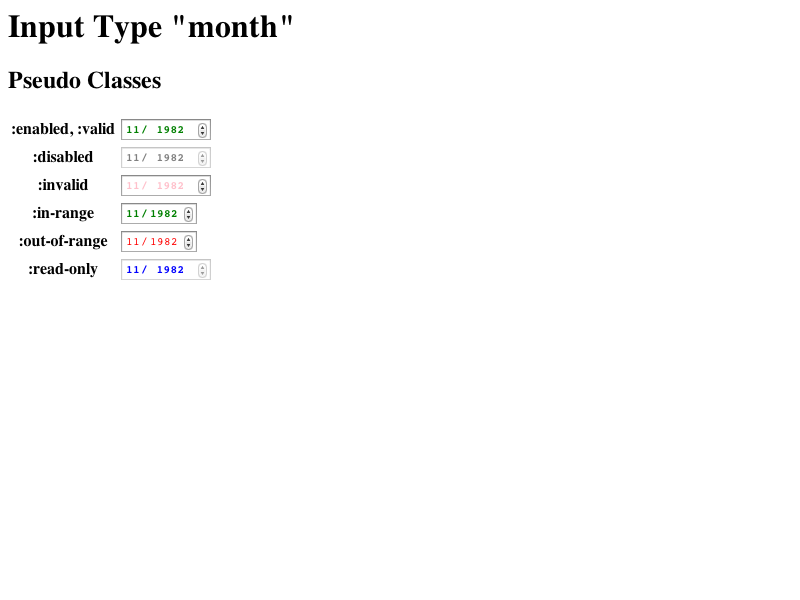
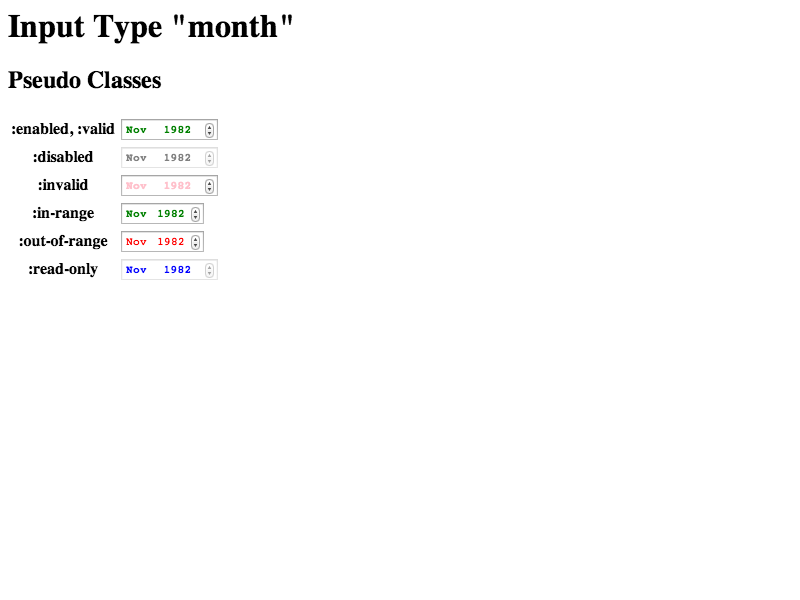
Use Localizer::monthFormat to construct input[type=month] UI https://bugs.webkit.org/show_bug.cgi?id=99818
Reviewed by Kentaro Hara.

Source/WebCore:

Use an LDML format returned by Localizer::monthFormat for
input[type=month] UI.

Because the format may contain symbolic month names and symbolic
stand-alone month names, we need to add:
 - Symbolic/numeric detection in DateTimeEditBuilder
 - Normal/stand-alone detection in DateTimeEditBuilder
 - Symbolic edit field for months

Test: fast/forms/month-multiple-fields/month-multiple-fields-appearance-l10n.html,
      fast/forms/month-multiple-fields/month-multiple-fields-keyboard-events.html

* html/MonthInputType.cpp:
(WebCore::MonthInputType::setupLayoutParameters):
Use Localizer::monthFormat.

* html/shadow/DateTimeEditElement.cpp:
(WebCore::DateTimeEditBuilder::visitField):
- If the number of continuous field character is greater than 2, use
DateTimeSymbolicMonthFieldElement.
- Supports stand-alone month field.

* html/shadow/DateTimeFieldElements.h:
(DateTimeSymbolicMonthFieldElement): Added. A subclass of DateTimeSymbolicFieldElement.
* html/shadow/DateTimeFieldElements.cpp:
(WebCore::DateTimeSymbolicMonthFieldElement::DateTimeSymbolicMonthFieldElement):
Added.
(WebCore::DateTimeSymbolicMonthFieldElement::create): Added.
(WebCore::DateTimeSymbolicMonthFieldElement::populateDateTimeFieldsState):
We need to add 1 because the internal integer representation is 0-based
and DateTimeFieldsState uses 1-based month.
(WebCore::DateTimeSymbolicMonthFieldElement::setValueAsDate):
DateComponents::month is 0-based.
[…]

diff --git a/LayoutTests/fast/forms/month-multiple-fields/month-multiple-fields-keyboard-events.html b/LayoutTests/fast/forms/month-multiple-fields/month-multiple-fields-keyboard-events.html
@@ -43,16 +43,16 @@ function beginTest(title, value, opt_min, opt_max)
     input.focus();
 }
 
-// We assume the year-month format is MM/yyyy.
+// We assume the year-month format is "MMM yyyy".
 
 beginTest('Digit keys');
-keyDown('9');
-keyDown('2');
+keyDown('s');
+keyDown('rightArrow');
 keyDown('0');
 keyDown('1');
 keyDown('2');
 keyDown('A');
-shouldBeEqualToString('input.value', '2012-09');
+shouldBeEqualToString('input.value', '0012-09');
 
 // FIXME: We should test type ahead time out. When event.leapForward() affects
 // keyboard event time stamp, we can uncomment this fragment.
@@ -106,13 +106,14 @@ keyDown('upArrow');
 shouldBeEqualToString('input.value', '2012-02');
 
 beginTest('Tab key', '2012-09');
-keyDown('\t');
-keyDown('5');
+keyDown('\t'); // -> Sep [2012]
+keyDown('5'); //  -> Sep [0005]
 shouldBeEqualToString('input.value', '0005-09');
-keyDown('\t', ['shiftKey']);
-keyDown('7');
-shouldBeEqualToString('input.value', '0005-07');
-keyDown('\t');
+keyDown('\t', ['shiftKey']); // -> [Sep] [0005]
+keyDown('J'); // -> [Jan] 0005
+shouldBeEqualToString('input.value', '0005-01');
+keyDown('\t'); // -> Jan [0005]
+keyDown('\t'); // -> Jan 0005
 shouldBeEqualToString('document.activeElement.id', 'another');
 
 beginTest('Shfit+Tab key', '2012-09');
@@ -174,14 +175,14 @@ shouldBeEqualToString('input.value', '0002-12');
 // lang-attribute-aware-form-control-UI feature.
 input.setAttribute("lang", "he-il");
 beginTest('RTL Left/Right keys', '2012-09');
-keyDown('1');
-shouldBeEqualToString('input.value', '2012-01');
-keyDown('leftArrow');
-keyDown('2');
-shouldBeEqualToString('input.value', '0002-01');
-keyDown('rightArrow');
-keyDown('3');
-shouldBeEqualToString('input.value', '0002-03');
+keyDown('upArrow'); // -> 2012 [M10]
+shouldBeEqualToString('input.value', '2012-10');
+keyDown('leftArrow'); // -> [2012] M10
+keyDown('2'); //         -> [0002] M10
+shouldBeEqualToString('input.value', '0002-10');
+keyDown('rightArrow'); // -> 0002 [M10]
+keyDown('upArrow'); //    -> 0002 [M11]
+shouldBeEqualToString('input.value', '0002-11');
 input.removeAttribute("lang");
 </script>
 <script src="../../js/resources/js-test-post.js"></script>

diff --git a/LayoutTests/fast/forms/month-multiple-fields/month-multiple-fields-appearance-l10n.html b/LayoutTests/fast/forms/month-multiple-fields/month-multiple-fields-appearance-l10n.html
@@ -1,0 +1,46 @@
+<!DOCTYPE html>
+<html>
+<head>
+<meta charset="utf-8">
+<script>
+if (window.internals)
+    internals.settings.setLangAttributeAwareFormControlUIEnabled(true);
+if (window.testRunner)
+    testRunner.dumpAsText(true);
+</script>
+<style>
+dt {
+    float: left;
+    min-width: 5em;
+}
+</style>
+</head>
+<body>
+<dl>
+<dt>ar-eg
+<dd><input type="month" value="2012-12" lang="ar-eg">
+<dt>de-de
+<dd><input type="month" value="2012-12" lang="de-de">
+<dt>el-gr
+<dd><input type="month" value="2012-12" lang="el-gr">
+<dt>en-us
+<dd><input type="month" value="2012-12" lang="en-us">
+<dt>fr-fr
+<dd><input type="month" value="2012-12" lang="fr-fr">
+<dt>he-il
+<dd><input type="month" value="2012-12" lang="he-il">
+<dt>hi-in
+<dd><input type="month" value="2012-12" lang="hi-in">
+<dt>ja-jp
+<dd><input type="month" value="2012-12" lang="ja-jp">
+<dt>ko-kr
+<dd><input type="month" value="2012-12" lang="ko-kr">
+<dt>ru-ru
+<dd><input type="month" value="2012-12" lang="ru-ru">
+<dt>zh-tw
+<dd><input type="month" value="2012-12" lang="zh-tw">
+<dt>zh-cn
+<dd><input type="month" value="2012-12" lang="zh-cn">
+</dl>
+</body>
+</html>

diff --git a/Source/WebCore/html/shadow/DateTimeFieldElements.cpp b/Source/WebCore/html/shadow/DateTimeFieldElements.cpp
@@ -381,6 +381,50 @@ void DateTimeSecondFieldElement::setValueAsDateTimeFieldsState(const DateTimeFie
 
 // ----------------------------
 
+DateTimeSymbolicMonthFieldElement::DateTimeSymbolicMonthFieldElement(Document* document, FieldOwner& fieldOwner, const Vector<String>& labels)
+    : DateTimeSymbolicFieldElement(document, fieldOwner, labels)
+{
+}
+
+PassRefPtr<DateTimeSymbolicMonthFieldElement> DateTimeSymbolicMonthFieldElement::create(Document* document, FieldOwner& fieldOwner, const Vector<String>& labels)
+{
+    DEFINE_STATIC_LOCAL(AtomicString, monthPsuedoId, ("-webkit-datetime-edit-month-field"));
+    RefPtr<DateTimeSymbolicMonthFieldElement> field = adoptRef(new DateTimeSymbolicMonthFieldElement(document, fieldOwner, labels));
+    field->initialize(monthPsuedoId, AXMonthFieldText());
+    return field.release();
+}
+
+void DateTimeSymbolicMonthFieldElement::populateDateTimeFieldsState(DateTimeFieldsState& dateTimeFieldsState)
+{
+    if (!hasValue())
+        dateTimeFieldsState.setMonth(DateTimeFieldsState::emptyValue);
+    ASSERT(valueAsInteger() < static_cast<int>(symbolsSize()));
+    dateTimeFieldsState.setMonth(valueAsInteger() + 1);
+}
+
+void DateTimeSymbolicMonthFieldElement::setValueAsDate(const DateComponents& date)
+{
+    setValueAsInteger(date.month());
+}
+
+void DateTimeSymbolicMonthFieldElement::setValueAsDateTimeFieldsState(const DateTimeFieldsState& dateTimeFieldsState, const DateComponents& dateForReadOnlyField)
+{
+    if (!dateTimeFieldsState.hasMonth()) {
+        setEmptyValue(dateForReadOnlyField);
+        return;
+    }
+
+    const unsigned value = dateTimeFieldsState.month() - 1;
+    if (value >= symbolsSize()) {
+        setEmptyValue(dateForReadOnlyField);
+        return;
+    }
+
+    setValueAsInteger(value);
+}
+
+// ----------------------------
+
 DateTimeWeekFieldElement::DateTimeWeekFieldElement(Document* document, FieldOwner& fieldOwner)
     : DateTimeNumericFieldElement(document, fieldOwner, DateComponents::minimumWeekNumber, DateComponents::maximumWeekNumber, "--")
 {

diff --git a/Source/WebCore/html/shadow/DateTimeEditElement.cpp b/Source/WebCore/html/shadow/DateTimeEditElement.cpp
@@ -90,8 +90,10 @@ bool DateTimeEditBuilder::needMillisecondField() const
         || !stepRange().step().remainder(static_cast<int>(msPerSecond)).isZero();
 }
 
-void DateTimeEditBuilder::visitField(DateTimeFormat::FieldType fieldType, int)
+void DateTimeEditBuilder::visitField(DateTimeFormat::FieldType fieldType, int count)
 {
+    // In LDML, M and MM are numeric, and MMM, MMMM, and MMMMM are symbolic.
+    const int symbolicMonthThreshold = 3;
     Document* const document = m_editElement.document();
 
     switch (fieldType) {
@@ -124,8 +126,19 @@ void DateTimeEditBuilder::visitField(DateTimeFormat::FieldType fieldType, int)
     }
 
     case DateTimeFormat::FieldTypeMonth:
-        // We always use "MM", two digits month, even if "M", "MMM", "MMMM", or "MMMMM".
-        m_editElement.addField(DateTimeMonthFieldElement::create(document, m_editElement, m_parameters.placeholderForMonth));
+        if (count >= symbolicMonthThreshold) {
+            // We always use abbreviations.
+            m_editElement.addField(DateTimeSymbolicMonthFieldElement::create(document, m_editElement, m_parameters.localizer.shortMonthLabels()));
+        } else
+            m_editElement.addField(DateTimeMonthFieldElement::create(document, m_editElement, m_parameters.placeholderForMonth));
+        return;
+
+    case DateTimeFormat::FieldTypeMonthStandAlone:
+        if (count >= symbolicMonthThreshold) {
+            // We always use abbreviations.
+            m_editElement.addField(DateTimeSymbolicMonthFieldElement::create(document, m_editElement, m_parameters.localizer.shortStandAloneMonthLabels()));
+        } else
+            m_editElement.addField(DateTimeMonthFieldElement::create(document, m_editElement, m_parameters.placeholderForMonth));
         return;
 
     case DateTimeFormat::FieldTypePeriod:

diff --git a/Source/WebCore/html/shadow/DateTimeFieldElements.h b/Source/WebCore/html/shadow/DateTimeFieldElements.h
@@ -147,6 +147,21 @@ private:
     virtual void setValueAsDateTimeFieldsState(const DateTimeFieldsState&, const DateComponents& dateForReadOnlyField) OVERRIDE FINAL;
 };
 
+class DateTimeSymbolicMonthFieldElement : public DateTimeSymbolicFieldElement {
+    WTF_MAKE_NONCOPYABLE(DateTimeSymbolicMonthFieldElement);
+
+public:
+    static PassRefPtr<DateTimeSymbolicMonthFieldElement> create(Document*, FieldOwner&, const Vector<String>&);
+
+private:
+    DateTimeSymbolicMonthFieldElement(Document*, FieldOwner&, const Vector<String>&);
+
+    // DateTimeFieldElement functions.
+    virtual void populateDateTimeFieldsState(DateTimeFieldsState&) OVERRIDE FINAL;
+    virtual void setValueAsDate(const DateComponents&) OVERRIDE FINAL;
+    virtual void setValueAsDateTimeFieldsState(const DateTimeFieldsState&, const DateComponents& dateForReadOnlyField) OVERRIDE FINAL;
+};
+
 class DateTimeWeekFieldElement : public DateTimeNumericFieldElement {
     WTF_MAKE_NONCOPYABLE(DateTimeWeekFieldElement);
 

diff --git a/Source/WebCore/html/MonthInputType.cpp b/Source/WebCore/html/MonthInputType.cpp
@@ -154,7 +154,7 @@ String MonthInputType::formatDateTimeFieldsState(const DateTimeFieldsState& date
 
 void MonthInputType::setupLayoutParameters(DateTimeEditElement::LayoutParameters& layoutParameters, const DateComponents& date) const
 {
-    layoutParameters.dateTimeFormat = monthFormatInLDML();
+    layoutParameters.dateTimeFormat = layoutParameters.localizer.monthFormat();
     layoutParameters.fallbackDateTimeFormat = "MM/yyyy";
     layoutParameters.minimumYear = fullYear(element()->fastGetAttribute(minAttr));
     layoutParameters.maximumYear = fullYear(element()->fastGetAttribute(maxAttr));

diff --git a/Source/WebCore/html/shadow/DateTimeSymbolicFieldElement.h b/Source/WebCore/html/shadow/DateTimeSymbolicFieldElement.h
@@ -38,6 +38,7 @@ class DateTimeSymbolicFieldElement : public DateTimeFieldElement {
 
 protected:
     DateTimeSymbolicFieldElement(Document*, FieldOwner&, const Vector<String>&);
+    size_t symbolsSize() const { return m_symbols.size(); }
     virtual bool hasValue() const OVERRIDE FINAL;
     virtual void setEmptyValue(const DateComponents& dateForReadOnlyField, EventBehavior = DispatchNoEvent) OVERRIDE FINAL;
     virtual void setValueAsInteger(int, EventBehavior = DispatchNoEvent) OVERRIDE FINAL;
